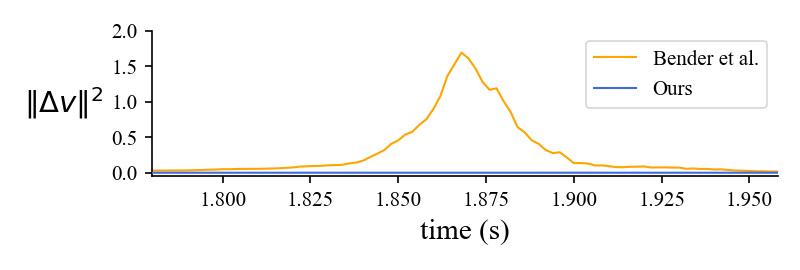
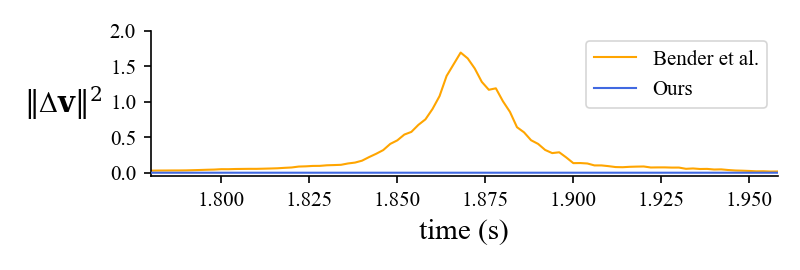
.

diff --git a/plot_stats.py b/plot_stats.py
@@ -244,7 +244,7 @@ def _ylabel_for_key(key: str) -> str:
     mapping = {
         "elapsed_time_ms": "Elapsed time (ms)",
         "opt_iter": "Iteration count",
-        "opt_error": r"$\|$Δv$\|^2$",
+        "opt_error": r"$\|$Δ$\mathbf{v}\|^2$",
         "pcg_iter": "PCG iteration counts",
         "pcg_error": "PCG error",
     }
@@ -605,7 +605,7 @@ def plot_groups_overlay(
                 any_line = True
                 last_x = x_master
             ax.set_xlabel("Iteration")
-            ax.set_ylabel(r"$\|$Δv$\|^2$", rotation='horizontal', ha='right', va='center', x=-0.1)
+            ax.set_ylabel(r"$\|$Δ$\mathbf{v}\|^2$", rotation='horizontal', ha='right', va='center', x=-0.1)
 
             if any_line:
                 ax.margins(x=0)
@@ -826,7 +826,10 @@ def plot_groups_overlay(
             ylabel_kwargs = {}
             if key not in ("opt_iter", "pcg_iter", "elapsed_time_ms"):
                 ylabel_kwargs = {'rotation': 'horizontal', 'ha': 'right', 'va': 'center', 'x': -0.1}
-            ax.set_ylabel(_ylabel_for_key(key), **ylabel_kwargs)
+            if key == "iter_decay":
+                ax.set_ylabel(r"$\|$Δ$\mathbf{v}\|^2$", **ylabel_kwargs)
+            else:
+                ax.set_ylabel(_ylabel_for_key(key), **ylabel_kwargs)
         
         # Align x-range to plotted data only
         if any_line and global_x_min is not None and global_x_max is not None:
@@ -893,7 +896,7 @@ def plot_groups_overlay(
             _plot_one_key(ax, key)
             out_key = f"{base_no_ext}-{key}{ext or '.png'}"
             os.makedirs(os.path.dirname(out_key), exist_ok=True)
-            fig.tight_layout(pad=0.3)
+            fig.tight_layout()
             fig.savefig(out_key, dpi=150)
             print(f"Saved figure to {out_key}")
             if show:
